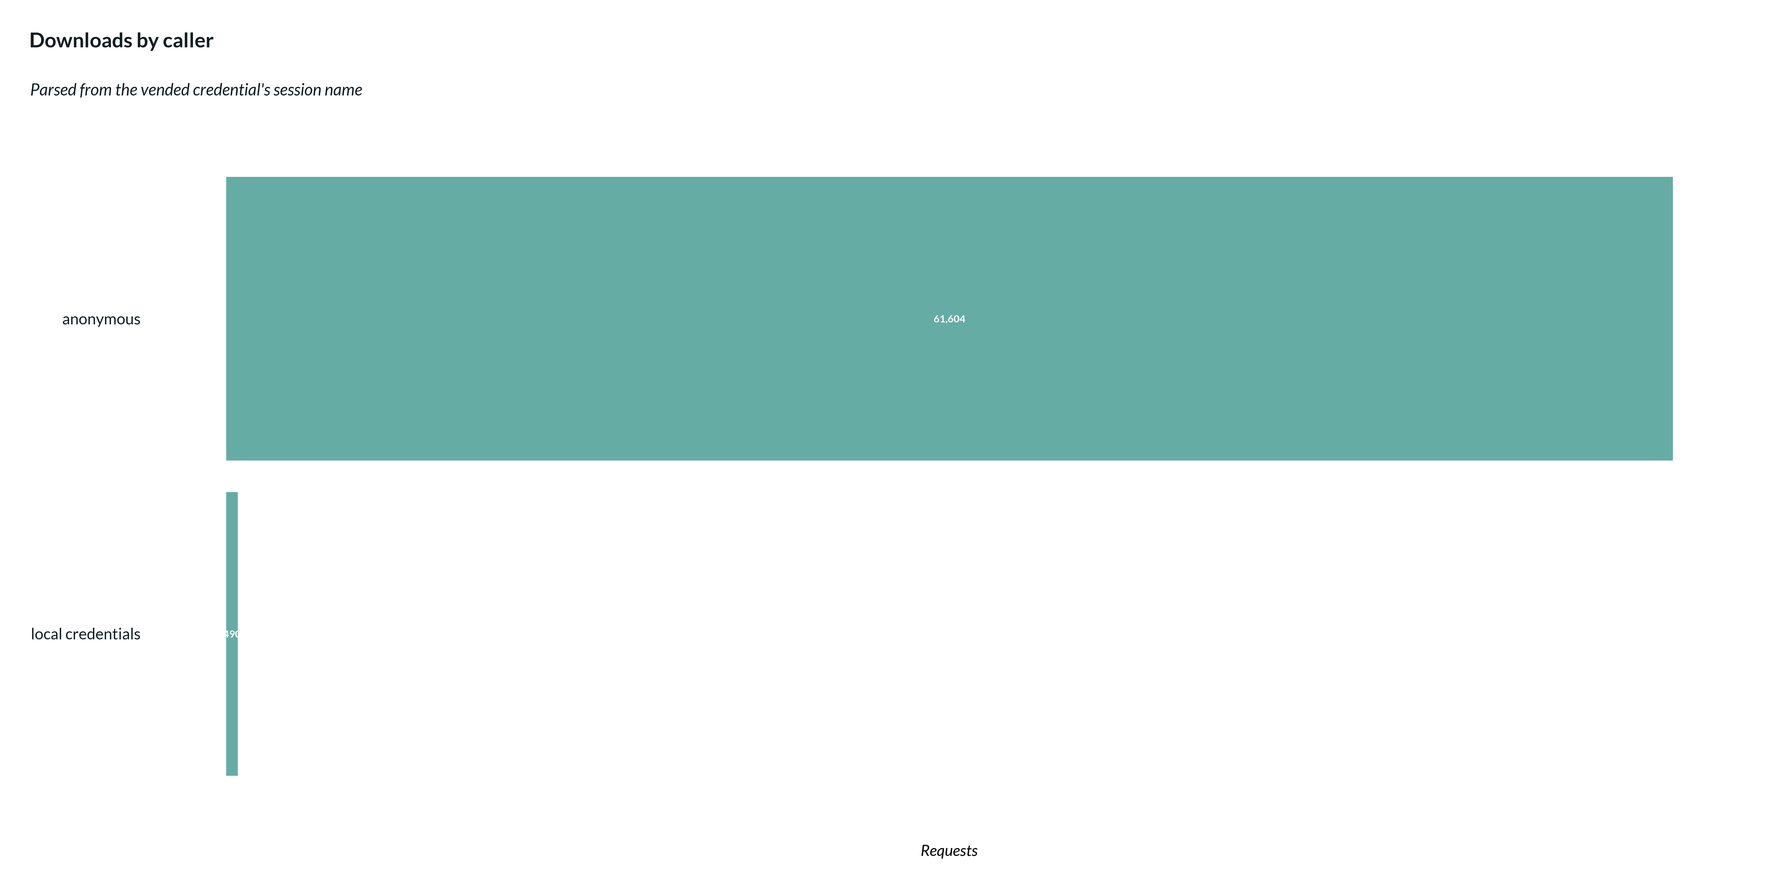
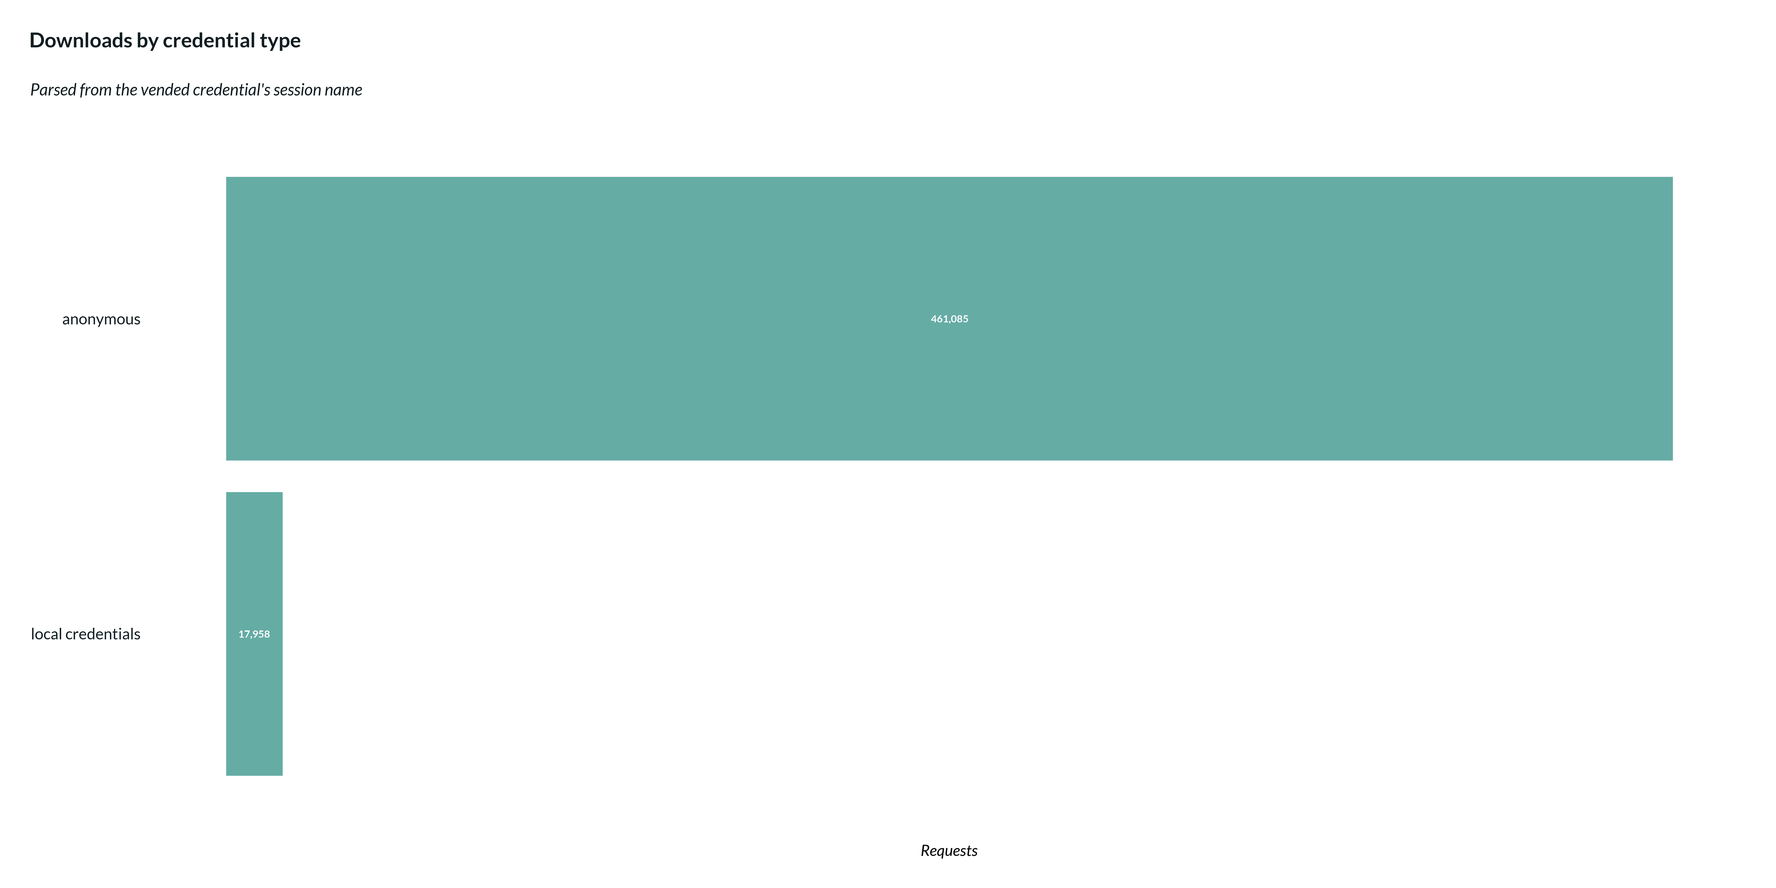
Deploying to gh-pages from @ ruralinnovation/cori.data.s3@3d5d6fb7d20d0487804c5bddb780308ca57aa5aa 🚀

Changed region(s): [[0.125, 0.5289, 0.1562, 0.8711], [0.0938, 0.0311, 0.1562, 0.0622]]

diff --git a/articles/monitoring-s3-access.html b/articles/monitoring-s3-access.html
@@ -66,9 +66,6 @@
 <p>Every request to a CORI data bucket is written to an S3 server access
 log. This vignette turns those logs into charts: who is downloading
 what, from which bucket, and how that changes over time.</p>
-<p>Chunks are set <code>eval = FALSE</code> because rendering them
-queries several months of live log data. Run them interactively against
-a real window.</p>
 <div class="section level2">
 <h2 id="where-the-logs-live">Where the logs live<a class="anchor" aria-label="anchor" href="#where-the-logs-live"></a>
 </h2>
@@ -99,11 +96,15 @@ rather than a CSV reader. The important discipline is to aggregate
 inside DuckDB and return only a small summary to R — never pull raw log
 lines into memory.</p>
 <div class="sourceCode" id="cb3"><pre class="downlit sourceCode r">
-<code class="sourceCode R"><span><span class="co"># One glob per day for the past week — each query hits a single date prefix.</span></span>
-<span><span class="va">dates</span> <span class="op">&lt;-</span> <span class="fu"><a href="https://rdrr.io/r/base/seq.html" class="external-link">seq</a></span><span class="op">(</span><span class="fu"><a href="https://rdrr.io/r/base/Sys.time.html" class="external-link">Sys.Date</a></span><span class="op">(</span><span class="op">)</span> <span class="op">-</span> <span class="fl">7</span>, <span class="fu"><a href="https://rdrr.io/r/base/Sys.time.html" class="external-link">Sys.Date</a></span><span class="op">(</span><span class="op">)</span>, by <span class="op">=</span> <span class="st">"day"</span><span class="op">)</span></span>
-<span><span class="va">globs</span> <span class="op">&lt;-</span> <span class="fu"><a href="https://rdrr.io/r/base/sprintf.html" class="external-link">sprintf</a></span><span class="op">(</span></span>
-<span>  <span class="st">"s3://cori.data.verse/logs/312512371189/us-east-1/*/%s/*"</span>,</span>
-<span>  <span class="fu"><a href="https://rdrr.io/r/base/format.html" class="external-link">format</a></span><span class="op">(</span><span class="va">dates</span>, <span class="st">"%Y/%m/%d"</span><span class="op">)</span></span>
+<code class="sourceCode R"><span><span class="va">buckets</span> <span class="op">&lt;-</span> <span class="fu"><a href="https://rdrr.io/r/base/c.html" class="external-link">c</a></span><span class="op">(</span></span>
+<span>  <span class="st">"cori.data.bds"</span>,</span>
+<span>  <span class="st">"cori.data.bfs"</span>,</span>
+<span>  <span class="st">"cori.data.bps"</span>,</span>
+<span>  <span class="st">"cori.data.fcc"</span>,</span>
+<span>  <span class="st">"cori.data.hu"</span>,</span>
+<span>  <span class="st">"cori.data.pep"</span>,</span>
+<span>  <span class="st">"cori.data.qcew"</span>,</span>
+<span>  <span class="st">"ruraldefinitions"</span></span>
 <span><span class="op">)</span></span>
 <span></span>
 <span><span class="va">log_pattern</span> <span class="op">&lt;-</span> <span class="fu"><a href="https://rdrr.io/r/base/paste.html" class="external-link">paste0</a></span><span class="op">(</span></span>
@@ -138,26 +139,61 @@ lines into memory.</p>
 <span><span class="st">  GROUP BY 1, 2, 3</span></span>
 <span><span class="st">"</span></span>
 <span></span>
-<span><span class="va">con</span> <span class="op">&lt;-</span> <span class="fu"><a href="../reference/connect_to_s3.html">connect_to_s3</a></span><span class="op">(</span><span class="st">"cori.data.verse"</span><span class="op">)</span></span>
+<span><span class="va">activity</span> <span class="op">&lt;-</span> <span class="fu"><a href="https://rdrr.io/r/base/list.html" class="external-link">list</a></span><span class="op">(</span><span class="op">)</span></span>
 <span></span>
-<span><span class="va">activity</span> <span class="op">&lt;-</span> <span class="fu">purrr</span><span class="fu">::</span><span class="fu"><a href="https://purrr.tidyverse.org/reference/map.html" class="external-link">map</a></span><span class="op">(</span><span class="va">globs</span>, \<span class="op">(</span><span class="va">g</span><span class="op">)</span> <span class="op">{</span></span>
-<span>  <span class="fu">DBI</span><span class="fu">::</span><span class="fu"><a href="https://dbi.r-dbi.org/reference/dbGetQuery.html" class="external-link">dbGetQuery</a></span><span class="op">(</span><span class="va">con</span>, <span class="fu"><a href="https://rdrr.io/r/base/sprintf.html" class="external-link">sprintf</a></span><span class="op">(</span><span class="va">query_template</span>, <span class="va">log_pattern</span>, <span class="va">g</span><span class="op">)</span><span class="op">)</span></span>
-<span><span class="op">}</span><span class="op">)</span> <span class="op">|&gt;</span></span>
-<span>  <span class="fu">dplyr</span><span class="fu">::</span><span class="fu"><a href="https://dplyr.tidyverse.org/reference/bind_rows.html" class="external-link">bind_rows</a></span><span class="op">(</span><span class="op">)</span> <span class="op">|&gt;</span></span>
-<span>  <span class="fu">dplyr</span><span class="fu">::</span><span class="fu"><a href="https://dplyr.tidyverse.org/reference/filter.html" class="external-link">filter</a></span><span class="op">(</span></span>
-<span>    <span class="va">bucket</span> <span class="op"><a href="https://rdrr.io/r/base/match.html" class="external-link">%in%</a></span> <span class="fu"><a href="https://rdrr.io/r/base/c.html" class="external-link">c</a></span><span class="op">(</span></span>
-<span>      <span class="st">"cori.data.bds"</span>,</span>
-<span>      <span class="st">"cori.data.bfs"</span>,</span>
-<span>      <span class="st">"cori.data.bps"</span>,</span>
-<span>      <span class="st">"cori.data.fcc"</span>,</span>
-<span>      <span class="st">"cori.data.hu"</span>,</span>
-<span>      <span class="st">"cori.data.pep"</span>,</span>
-<span>      <span class="st">"cori.data.qcew"</span>,</span>
-<span>      <span class="st">"ruraldefinitions"</span></span>
-<span>    <span class="op">)</span></span>
+<span><span class="kw">for</span> <span class="op">(</span><span class="va">b</span> <span class="kw">in</span> <span class="va">buckets</span><span class="op">)</span> <span class="op">{</span></span>
+<span></span>
+<span>  <span class="co"># One glob per day for the past week — each query hits a single</span></span>
+<span>  <span class="co"># bucket/date prefix, which is what keeps a query inside the vended</span></span>
+<span>  <span class="co"># credential's lifetime.</span></span>
+<span>  <span class="va">dates</span> <span class="op">&lt;-</span> <span class="fu"><a href="https://rdrr.io/r/base/seq.html" class="external-link">seq</a></span><span class="op">(</span><span class="fu"><a href="https://rdrr.io/r/base/Sys.time.html" class="external-link">Sys.Date</a></span><span class="op">(</span><span class="op">)</span> <span class="op">-</span> <span class="fl">7</span>, <span class="fu"><a href="https://rdrr.io/r/base/Sys.time.html" class="external-link">Sys.Date</a></span><span class="op">(</span><span class="op">)</span>, by <span class="op">=</span> <span class="st">"day"</span><span class="op">)</span></span>
+<span>  <span class="va">globs</span> <span class="op">&lt;-</span> <span class="fu"><a href="https://rdrr.io/r/base/sprintf.html" class="external-link">sprintf</a></span><span class="op">(</span></span>
+<span>    <span class="st">"s3://cori.data.verse/logs/312512371189/us-east-1/%s/%s/*"</span>,</span>
+<span>    <span class="va">b</span>, <span class="fu"><a href="https://rdrr.io/r/base/format.html" class="external-link">format</a></span><span class="op">(</span><span class="va">dates</span>, <span class="st">"%Y/%m/%d"</span><span class="op">)</span></span>
 <span>  <span class="op">)</span></span>
 <span></span>
-<span><span class="fu"><a href="https://pillar.r-lib.org/reference/glimpse.html" class="external-link">glimpse</a></span><span class="op">(</span><span class="va">activity</span><span class="op">)</span></span></code></pre></div>
+<span>  <span class="va">bucket_activity</span> <span class="op">&lt;-</span> <span class="fu">purrr</span><span class="fu">::</span><span class="fu"><a href="https://purrr.tidyverse.org/reference/map.html" class="external-link">map</a></span><span class="op">(</span><span class="va">globs</span>, \<span class="op">(</span><span class="va">g</span><span class="op">)</span> <span class="op">{</span></span>
+<span>    <span class="va">con</span> <span class="op">&lt;-</span> <span class="fu"><a href="../reference/connect_to_s3.html">connect_to_s3</a></span><span class="op">(</span><span class="st">"cori.data.verse"</span><span class="op">)</span></span>
+<span>    <span class="co"># NOTE: on.exit() only defers to the exit of an enclosing *function*</span></span>
+<span>    <span class="fu"><a href="https://rdrr.io/r/base/on.exit.html" class="external-link">on.exit</a></span><span class="op">(</span><span class="fu">DBI</span><span class="fu">::</span><span class="fu"><a href="https://dbi.r-dbi.org/reference/dbDisconnect.html" class="external-link">dbDisconnect</a></span><span class="op">(</span><span class="va">con</span>, shutdown <span class="op">=</span> <span class="cn">TRUE</span><span class="op">)</span><span class="op">)</span></span>
+<span></span>
+<span>    <span class="co"># A quiet bucket/day legitimately has no log objects, and read_csv()</span></span>
+<span>    <span class="co"># raises an IO Error rather than returning zero rows when its glob</span></span>
+<span>    <span class="co"># matches nothing. glob() returns zero rows instead of erroring, so it</span></span>
+<span>    <span class="co"># is the guard -- one LIST request on the connection that is already</span></span>
+<span>    <span class="co"># authenticated, rather than a second client with its own credentials.</span></span>
+<span>    <span class="va">found</span> <span class="op">&lt;-</span> <span class="fu">DBI</span><span class="fu">::</span><span class="fu"><a href="https://dbi.r-dbi.org/reference/dbGetQuery.html" class="external-link">dbGetQuery</a></span><span class="op">(</span></span>
+<span>      <span class="va">con</span>, <span class="fu"><a href="https://rdrr.io/r/base/sprintf.html" class="external-link">sprintf</a></span><span class="op">(</span><span class="st">"SELECT count(*) AS n FROM glob('%s')"</span>, <span class="va">g</span><span class="op">)</span></span>
+<span>    <span class="op">)</span><span class="op">$</span><span class="va">n</span></span>
+<span></span>
+<span>    <span class="kw">if</span> <span class="op">(</span><span class="va">found</span> <span class="op">&gt;</span> <span class="fl">0</span><span class="op">)</span> <span class="op">{</span></span>
+<span>      <span class="fu">DBI</span><span class="fu">::</span><span class="fu"><a href="https://dbi.r-dbi.org/reference/dbGetQuery.html" class="external-link">dbGetQuery</a></span><span class="op">(</span><span class="va">con</span>, <span class="fu"><a href="https://rdrr.io/r/base/sprintf.html" class="external-link">sprintf</a></span><span class="op">(</span><span class="va">query_template</span>, <span class="va">log_pattern</span>, <span class="va">g</span><span class="op">)</span><span class="op">)</span></span>
+<span>    <span class="op">}</span> <span class="kw">else</span> <span class="op">{</span></span>
+<span>      <span class="kw"><a href="https://rdrr.io/r/base/function.html" class="external-link">return</a></span><span class="op">(</span><span class="cn">NULL</span><span class="op">)</span></span>
+<span>    <span class="op">}</span></span>
+<span>  <span class="op">}</span><span class="op">)</span></span>
+<span></span>
+<span>  <span class="co"># Appends this bucket's per-day data frames as elements, keeping `activity`</span></span>
+<span>  <span class="co"># a flat list for bind_rows() below. This relies on map() returning a plain</span></span>
+<span>  <span class="co"># list: a data frame is itself a list of columns, so c() would splice one</span></span>
+<span>  <span class="co"># column-by-column rather than appending it whole.</span></span>
+<span>  <span class="va">activity</span> <span class="op">&lt;-</span> <span class="fu"><a href="https://rdrr.io/r/base/c.html" class="external-link">c</a></span><span class="op">(</span><span class="va">activity</span>, <span class="va">bucket_activity</span><span class="op">)</span></span>
+<span><span class="op">}</span></span>
+<span></span>
+<span><span class="va">activity</span> <span class="op">&lt;-</span> <span class="va">activity</span> <span class="op">|&gt;</span></span>
+<span>  <span class="fu">dplyr</span><span class="fu">::</span><span class="fu"><a href="https://dplyr.tidyverse.org/reference/bind_rows.html" class="external-link">bind_rows</a></span><span class="op">(</span><span class="op">)</span> <span class="op">|&gt;</span></span>
+<span>  <span class="fu">dplyr</span><span class="fu">::</span><span class="fu"><a href="https://dplyr.tidyverse.org/reference/filter.html" class="external-link">filter</a></span><span class="op">(</span></span>
+<span>    <span class="va">bucket</span> <span class="op"><a href="https://rdrr.io/r/base/match.html" class="external-link">%in%</a></span> <span class="va">buckets</span></span>
+<span>  <span class="op">)</span></span>
+<span></span>
+<span><span class="fu"><a href="https://pillar.r-lib.org/reference/glimpse.html" class="external-link">glimpse</a></span><span class="op">(</span><span class="va">activity</span><span class="op">)</span></span>
+<span><span class="co">#&gt; Rows: 72</span></span>
+<span><span class="co">#&gt; Columns: 5</span></span>
+<span><span class="co">#&gt; $ bucket   <span style="color: #949494; font-style: italic;">&lt;chr&gt;</span> "cori.data.bds"<span style="color: #949494;">, </span>"cori.data.bds"<span style="color: #949494;">, </span>"cori.data.bds"<span style="color: #949494;">, </span>"cori.data…</span></span>
+<span><span class="co">#&gt; $ day      <span style="color: #949494; font-style: italic;">&lt;date&gt;</span> 2026-08-24<span style="color: #949494;">, </span>2026-08-25<span style="color: #949494;">, </span>2026-08-26<span style="color: #949494;">, </span>2026-08-27<span style="color: #949494;">, </span>2026-08-28<span style="color: #949494;">, </span>…</span></span>
+<span><span class="co">#&gt; $ caller   <span style="color: #949494; font-style: italic;">&lt;chr&gt;</span> "local credentials"<span style="color: #949494;">, </span>"local credentials"<span style="color: #949494;">, </span>"local credentials"…</span></span>
+<span><span class="co">#&gt; $ requests <span style="color: #949494; font-style: italic;">&lt;dbl&gt;</span> 376<span style="color: #949494;">, </span>190<span style="color: #949494;">, </span>2<span style="color: #949494;">, </span>563<span style="color: #949494;">, </span>529<span style="color: #949494;">, </span>2<span style="color: #949494;">, </span>2<span style="color: #949494;">, </span>2<span style="color: #949494;">, </span>365<span style="color: #949494;">, </span>2<span style="color: #949494;">, </span>2<span style="color: #949494;">, </span>2<span style="color: #949494;">, </span>2<span style="color: #949494;">, </span>2<span style="color: #949494;">, </span>2<span style="color: #949494;">, </span>2<span style="color: #949494;">, </span>2<span style="color: #949494;">, </span>…</span></span>
+<span><span class="co">#&gt; $ bytes    <span style="color: #949494; font-style: italic;">&lt;dbl&gt;</span> 36378558<span style="color: #949494;">, </span>18205991<span style="color: #949494;">, </span>736<span style="color: #949494;">, </span>54567469<span style="color: #949494;">, </span>48354171<span style="color: #949494;">, </span>26<span style="color: #949494;">, </span>736<span style="color: #949494;">, </span>736<span style="color: #949494;">, </span>34…</span></span></code></pre></div>
 <p>One row per bucket, day, and caller. Everything below is
 <code>dplyr</code> on that frame — the expensive work is already
 done.</p>
@@ -181,6 +217,7 @@ done.</p>
 <span>    x <span class="op">=</span> <span class="cn">NULL</span>, y <span class="op">=</span> <span class="st">"Requests"</span>, color <span class="op">=</span> <span class="cn">NULL</span></span>
 <span>  <span class="op">)</span> <span class="op">+</span></span>
 <span>  <span class="fu"><a href="https://ruralinnovation.github.io/cori.charts/reference/theme_cori_line.html" class="external-link">theme_cori_line</a></span><span class="op">(</span><span class="op">)</span></span></code></pre></div>
+<p><img src="monitoring-s3-access_files/figure-html/chart-by-bucket-1.png" class="r-plt" alt="" width="3600"></p>
 </div>
 <div class="section level2">
 <h2 id="who-is-downloading">Who is downloading<a class="anchor" aria-label="anchor" href="#who-is-downloading"></a>
@@ -224,6 +261,7 @@ identity that simply didn’t go through the vending endpoint.</p>
 <span>    x <span class="op">=</span> <span class="cn">NULL</span>, y <span class="op">=</span> <span class="st">"Requests"</span></span>
 <span>  <span class="op">)</span> <span class="op">+</span></span>
 <span>  <span class="fu"><a href="https://ruralinnovation.github.io/cori.charts/reference/theme_cori_horizontal_bars.html" class="external-link">theme_cori_horizontal_bars</a></span><span class="op">(</span><span class="op">)</span></span></code></pre></div>
+<p><img src="monitoring-s3-access_files/figure-html/chart-by-caller-1.png" class="r-plt" alt="" width="3600"></p>
 </div>
 <div class="section level2">
 <h2 id="year-to-date-summary">Year-to-date summary<a class="anchor" aria-label="anchor" href="#year-to-date-summary"></a>
@@ -240,6 +278,52 @@ identity that simply didn’t go through the vending endpoint.</p>
 <span>  <span class="op">)</span> <span class="op">|&gt;</span></span>
 <span>  <span class="fu"><a href="https://dplyr.tidyverse.org/reference/arrange.html" class="external-link">arrange</a></span><span class="op">(</span><span class="fu"><a href="https://dplyr.tidyverse.org/reference/desc.html" class="external-link">desc</a></span><span class="op">(</span><span class="va">requests</span><span class="op">)</span><span class="op">)</span> <span class="op">|&gt;</span></span>
 <span>  <span class="fu">knitr</span><span class="fu">::</span><span class="fu"><a href="https://rdrr.io/pkg/knitr/man/kable.html" class="external-link">kable</a></span><span class="op">(</span><span class="op">)</span></span></code></pre></div>
+<table class="table">
+<thead><tr class="header">
+<th align="left">bucket</th>
+<th align="right">requests</th>
+<th align="right">gb</th>
+<th align="right">callers</th>
+</tr></thead>
+<tbody>
+<tr class="odd">
+<td align="left">cori.data.fcc</td>
+<td align="right">460846</td>
+<td align="right">185.8</td>
+<td align="right">2</td>
+</tr>
+<tr class="even">
+<td align="left">cori.data.qcew</td>
+<td align="right">15406</td>
+<td align="right">4.3</td>
+<td align="right">2</td>
+</tr>
+<tr class="odd">
+<td align="left">cori.data.bds</td>
+<td align="right">2031</td>
+<td align="right">0.2</td>
+<td align="right">2</td>
+</tr>
+<tr class="even">
+<td align="left">cori.data.pep</td>
+<td align="right">686</td>
+<td align="right">0.0</td>
+<td align="right">2</td>
+</tr>
+<tr class="odd">
+<td align="left">ruraldefinitions</td>
+<td align="right">58</td>
+<td align="right">0.0</td>
+<td align="right">2</td>
+</tr>
+<tr class="even">
+<td align="left">cori.data.bps</td>
+<td align="right">16</td>
+<td align="right">0.0</td>
+<td align="right">1</td>
+</tr>
+</tbody>
+</table>
 <p>Swap the <code><a href="https://dplyr.tidyverse.org/reference/filter.html" class="external-link">filter()</a></code> for
 <code>day &gt;= Sys.Date() - 90</code> to get the trailing ninety days
 instead.</p>

diff --git a/articles/monitoring-s3-access.md b/articles/monitoring-s3-access.md
@@ -4,9 +4,6 @@ Every request to a CORI data bucket is written to an S3 server access
 log. This vignette turns those logs into charts: who is downloading
 what, from which bucket, and how that changes over time.
 
-Chunks are set `eval = FALSE` because rendering them queries several
-months of live log data. Run them interactively against a real window.
-
 ## Where the logs live
 
 Server access logging is enabled on every allowlisted bucket except
@@ -41,11 +38,15 @@ into memory.
 
 ``` r
 
-# One glob per day for the past week — each query hits a single date prefix.
-dates <- seq(Sys.Date() - 7, Sys.Date(), by = "day")
-globs <- sprintf(
-  "s3://cori.data.verse/logs/312512371189/us-east-1/*/%s/*",
-  format(dates, "%Y/%m/%d")
+buckets <- c(
+  "cori.data.bds",
+  "cori.data.bfs",
+  "cori.data.bps",
+  "cori.data.fcc",
+  "cori.data.hu",
+  "cori.data.pep",
+  "cori.data.qcew",
+  "ruraldefinitions"
 )
 
 log_pattern <- paste0(
@@ -80,26 +81,61 @@ query_template <- "
   GROUP BY 1, 2, 3
 "
 
-con <- connect_to_s3("cori.data.verse")
+activity <- list()
 
-activity <- purrr::map(globs, \(g) {
-  DBI::dbGetQuery(con, sprintf(query_template, log_pattern, g))
-}) |>
+for (b in buckets) {
+
+  # One glob per day for the past week — each query hits a single
+  # bucket/date prefix, which is what keeps a query inside the vended
+  # credential's lifetime.
+  dates <- seq(Sys.Date() - 7, Sys.Date(), by = "day")
+  globs <- sprintf(
+    "s3://cori.data.verse/logs/312512371189/us-east-1/%s/%s/*",
+    b, format(dates, "%Y/%m/%d")
+  )
+
+  bucket_activity <- purrr::map(globs, \(g) {
+    con <- connect_to_s3("cori.data.verse")
+    # NOTE: on.exit() only defers to the exit of an enclosing *function*
+    on.exit(DBI::dbDisconnect(con, shutdown = TRUE))
+
+    # A quiet bucket/day legitimately has no log objects, and read_csv()
+    # raises an IO Error rather than returning zero rows when its glob
+    # matches nothing. glob() returns zero rows instead of erroring, so it
+    # is the guard -- one LIST request on the connection that is already
+    # authenticated, rather than a second client with its own credentials.
+    found <- DBI::dbGetQuery(
+      con, sprintf("SELECT count(*) AS n FROM glob('%s')", g)
+    )$n
+
+    if (found > 0) {
+      DBI::dbGetQuery(con, sprintf(query_template, log_pattern, g))
+    } else {
+      return(NULL)
+    }
+  })
+
+  # Appends this bucket's per-day data frames as elements, keeping `activity`
+  # a flat list for bind_rows() below. This relies on map() returning a plain
+  # list: a data frame is itself a list of columns, so c() would splice one
+  # column-by-column rather than appending it whole.
+  activity <- c(activity, bucket_activity)
+}
+
+activity <- activity |>
   dplyr::bind_rows() |>
   dplyr::filter(
-    bucket %in% c(
-      "cori.data.bds",
-      "cori.data.bfs",
-      "cori.data.bps",
-      "cori.data.fcc",
-      "cori.data.hu",
-      "cori.data.pep",
-      "cori.data.qcew",
-      "ruraldefinitions"
-    )
+    bucket %in% buckets
   )
 
 glimpse(activity)
+#> Rows: 72
+#> Columns: 5
+#> $ bucket   <chr> "cori.data.bds", "cori.data.bds", "cori.data.bds", "cori.data…
+#> $ day      <date> 2026-08-24, 2026-08-25, 2026-08-26, 2026-08-27, 2026-08-28, …
+#> $ caller   <chr> "local credentials", "local credentials", "local credentials"…
+#> $ requests <dbl> 376, 190, 2, 563, 529, 2, 2, 2, 365, 2, 2, 2, 2, 2, 2, 2, 2, …
+#> $ bytes    <dbl> 36378558, 18205991, 736, 54567469, 48354171, 26, 736, 736, 34…
 ```
 
 One row per bucket, day, and caller. Everything below is `dplyr` on that
@@ -125,6 +161,8 @@ activity |>
   ) +
   theme_cori_line()
 ```
+
+![](monitoring-s3-access_files/figure-html/chart-by-bucket-1.png)
 
 ## Who is downloading
 
@@ -172,6 +210,8 @@ activity |>
   theme_cori_horizontal_bars()
 ```
 
+![](monitoring-s3-access_files/figure-html/chart-by-caller-1.png)
+
 ## Year-to-date summary
 
 ``` r
@@ -188,6 +228,15 @@ activity |>
   arrange(desc(requests)) |>
   knitr::kable()
 ```
+
+| bucket           | requests |    gb | callers |
+|:-----------------|---------:|------:|--------:|
+| cori.data.fcc    |   460846 | 185.8 |       2 |
+| cori.data.qcew   |    15406 |   4.3 |       2 |
+| cori.data.bds    |     2031 |   0.2 |       2 |
+| cori.data.pep    |      686 |   0.0 |       2 |
+| ruraldefinitions |       58 |   0.0 |       2 |
+| cori.data.bps    |       16 |   0.0 |       1 |
 
 Swap the [`filter()`](https://dplyr.tidyverse.org/reference/filter.html)
 for `day >= Sys.Date() - 90` to get the trailing ninety days instead.
